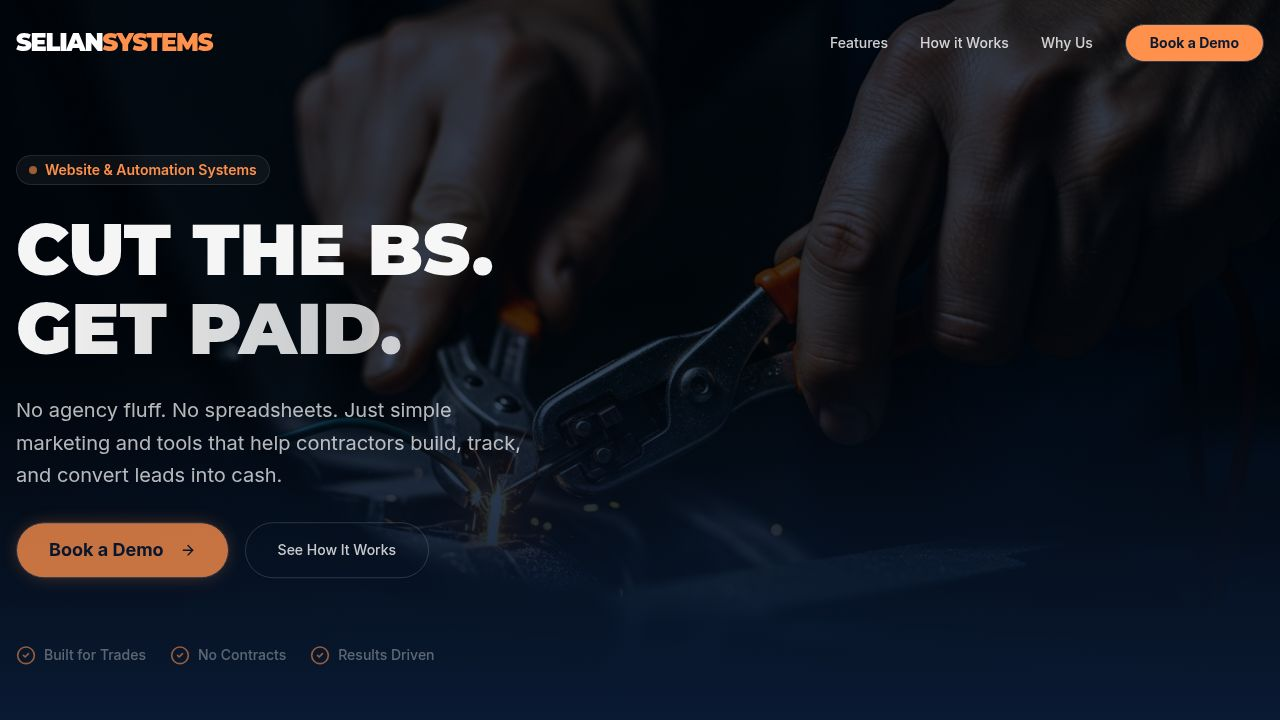
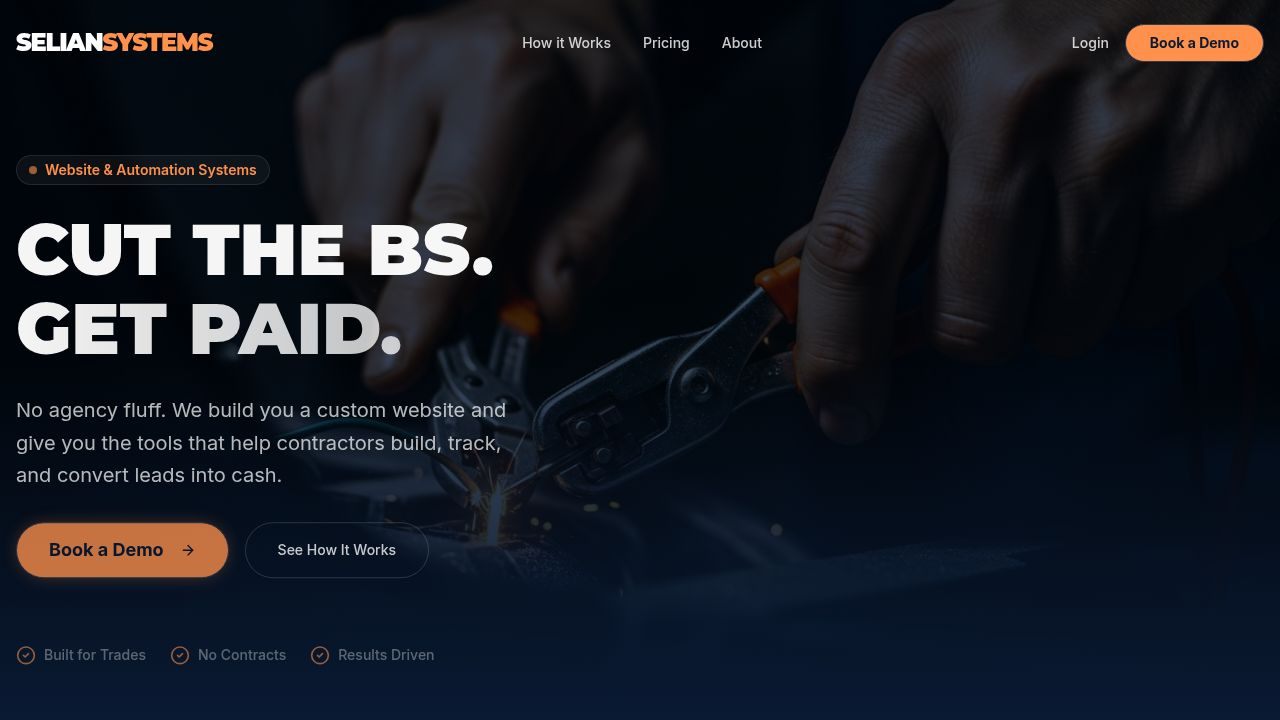
Create a dedicated "How it Works" page and update navigation
Adds a new page for "How it Works" and updates routing and navigation links to reflect this change, removing the old anchor link.

Replit-Commit-Author: Agent
Replit-Commit-Session-Id: 74ddf6d4-d870-49be-868e-39d963e68f30
Replit-Commit-Checkpoint-Type: full_checkpoint
Replit-Commit-Event-Id: 590177c5-6f63-4c48-ad95-8be0a4df463d
Replit-Commit-Screenshot-Url: https://storage.googleapis.com/screenshot-production-us-central1/a743e3dd-48ac-4cd8-ba5e-32e184ce31f6/74ddf6d4-d870-49be-868e-39d963e68f30/BKbwjAq
Replit-Helium-Checkpoint-Created: true

diff --git a/client/src/components/layout/Navbar.tsx b/client/src/components/layout/Navbar.tsx
@@ -30,8 +30,7 @@ export function Navbar() {
 
         {/* Desktop Nav - Left Side */}
         <div className="hidden md:flex items-center gap-8">
-          <a href="#features" className="text-sm font-medium text-white/80 hover:text-white transition-colors">Features</a>
-          <a href="#how-it-works" className="text-sm font-medium text-white/80 hover:text-white transition-colors">How it Works</a>
+          <Link href="/how-it-works" className="text-sm font-medium text-white/80 hover:text-white transition-colors cursor-pointer decoration-none">How it Works</Link>
           <Link href="/pricing" className="text-sm font-medium text-white/80 hover:text-white transition-colors cursor-pointer decoration-none">Pricing</Link>
           <Link href="/about" className="text-sm font-medium text-white/80 hover:text-white transition-colors cursor-pointer decoration-none">About</Link>
         </div>
@@ -57,8 +56,9 @@ export function Navbar() {
           </SheetTrigger>
           <SheetContent side="right" className="bg-background border-l-white/10">
             <div className="flex flex-col gap-6 mt-10">
-              <Link href="/about" className="text-lg font-medium text-white decoration-none cursor-pointer">About</Link>
+              <Link href="/how-it-works" className="text-lg font-medium text-white decoration-none cursor-pointer">How it Works</Link>
               <Link href="/pricing" className="text-lg font-medium text-white decoration-none cursor-pointer">Pricing</Link>
+              <Link href="/about" className="text-lg font-medium text-white decoration-none cursor-pointer">About</Link>
               <a href="https://portal.seliansystems.com" className="text-lg font-medium text-white decoration-none cursor-pointer">Login</a>
               <Button 
                 onClick={() => {

diff --git a/client/src/pages/how-it-works.tsx b/client/src/pages/how-it-works.tsx
@@ -1,0 +1,26 @@
+import { Navbar } from "@/components/layout/Navbar";
+import { Footer } from "@/components/sections/Footer";
+import { HowItWorks } from "@/components/sections/HowItWorks";
+
+export default function HowItWorksPage() {
+  return (
+    <div className="min-h-screen bg-background text-foreground font-sans selection:bg-primary selection:text-background">
+      <Navbar />
+      
+      <main className="pt-32">
+        <div className="container mx-auto px-4 max-w-3xl mb-16">
+          <h1 className="text-4xl md:text-6xl font-display font-bold text-white mb-6">
+            What Working With Us <span className="text-primary">Looks Like</span>
+          </h1>
+          <p className="text-xl text-white/70">
+            Three simple steps. No complicated onboarding. No months of back-and-forth. Just straightforward processes designed for contractors.
+          </p>
+        </div>
+
+        <HowItWorks />
+      </main>
+
+      <Footer />
+    </div>
+  );
+}

diff --git a/client/src/App.tsx b/client/src/App.tsx
@@ -7,6 +7,7 @@ import NotFound from "@/pages/not-found";
 import Home from "@/pages/home";
 import Pricing from "@/pages/pricing";
 import About from "@/pages/about";
+import HowItWorksPage from "@/pages/how-it-works";
 
 function Router() {
   return (
@@ -14,6 +15,7 @@ function Router() {
       <Route path="/" component={Home} />
       <Route path="/pricing" component={Pricing} />
       <Route path="/about" component={About} />
+      <Route path="/how-it-works" component={HowItWorksPage} />
       <Route component={NotFound} />
     </Switch>
   );
